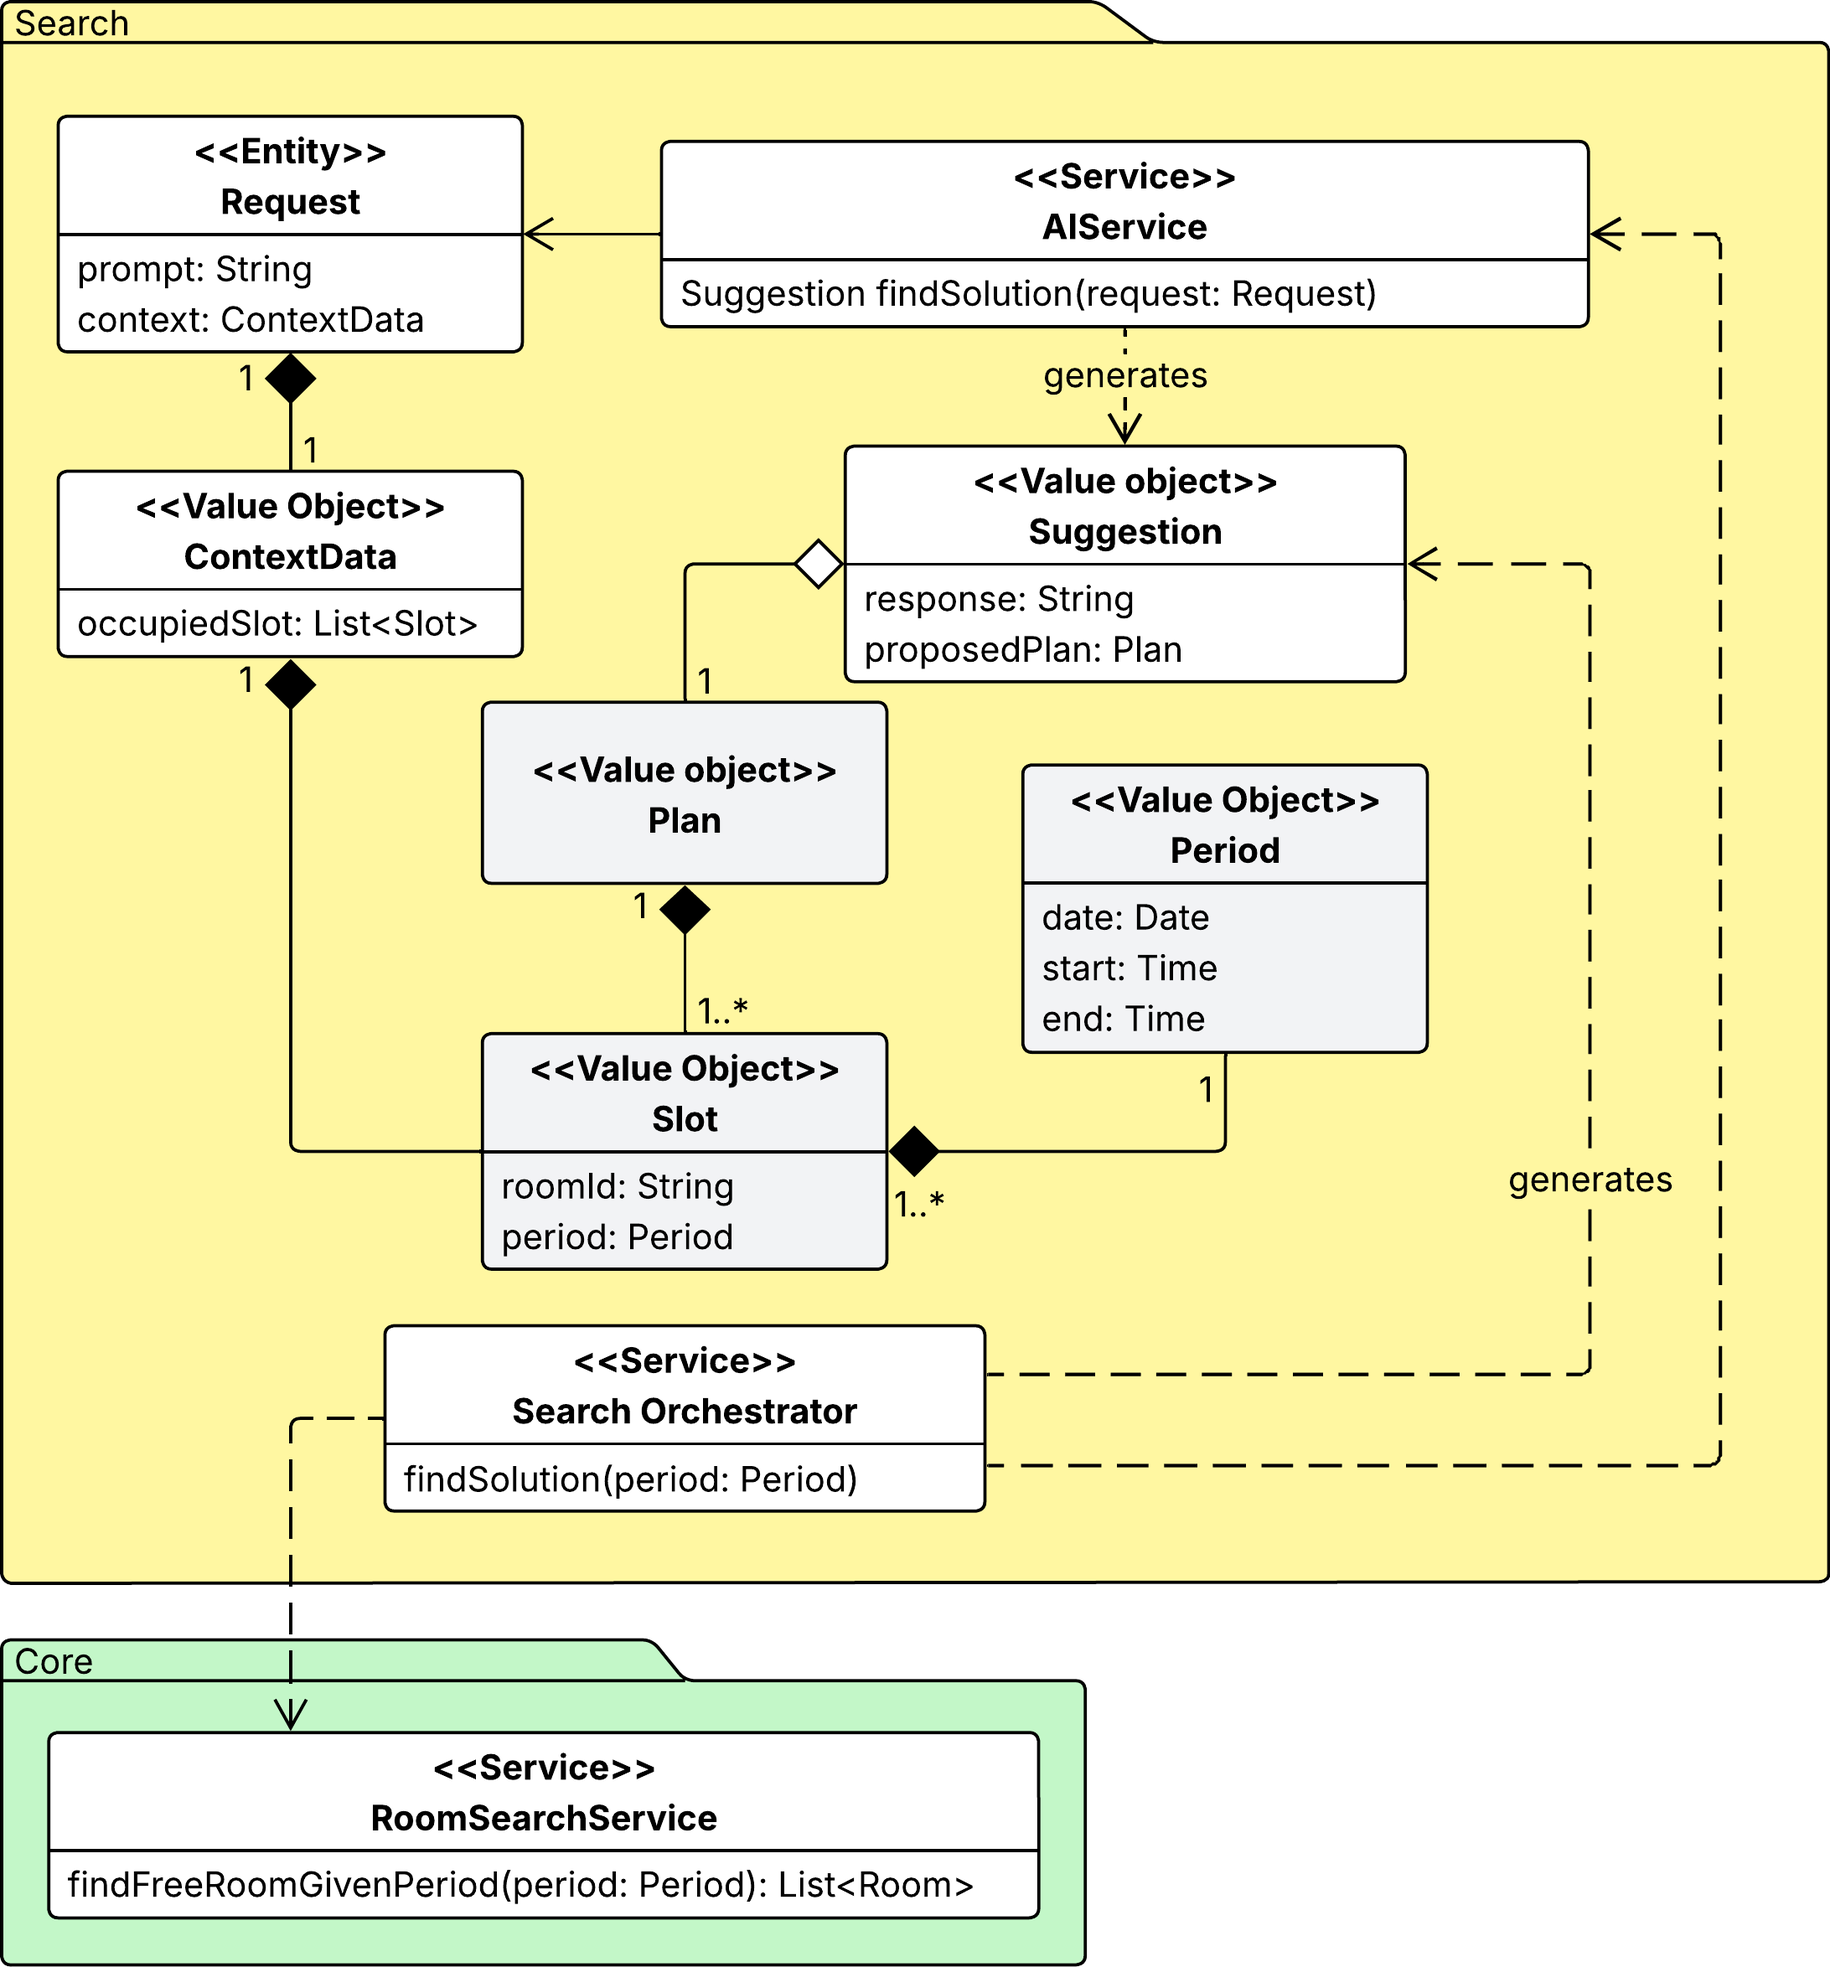
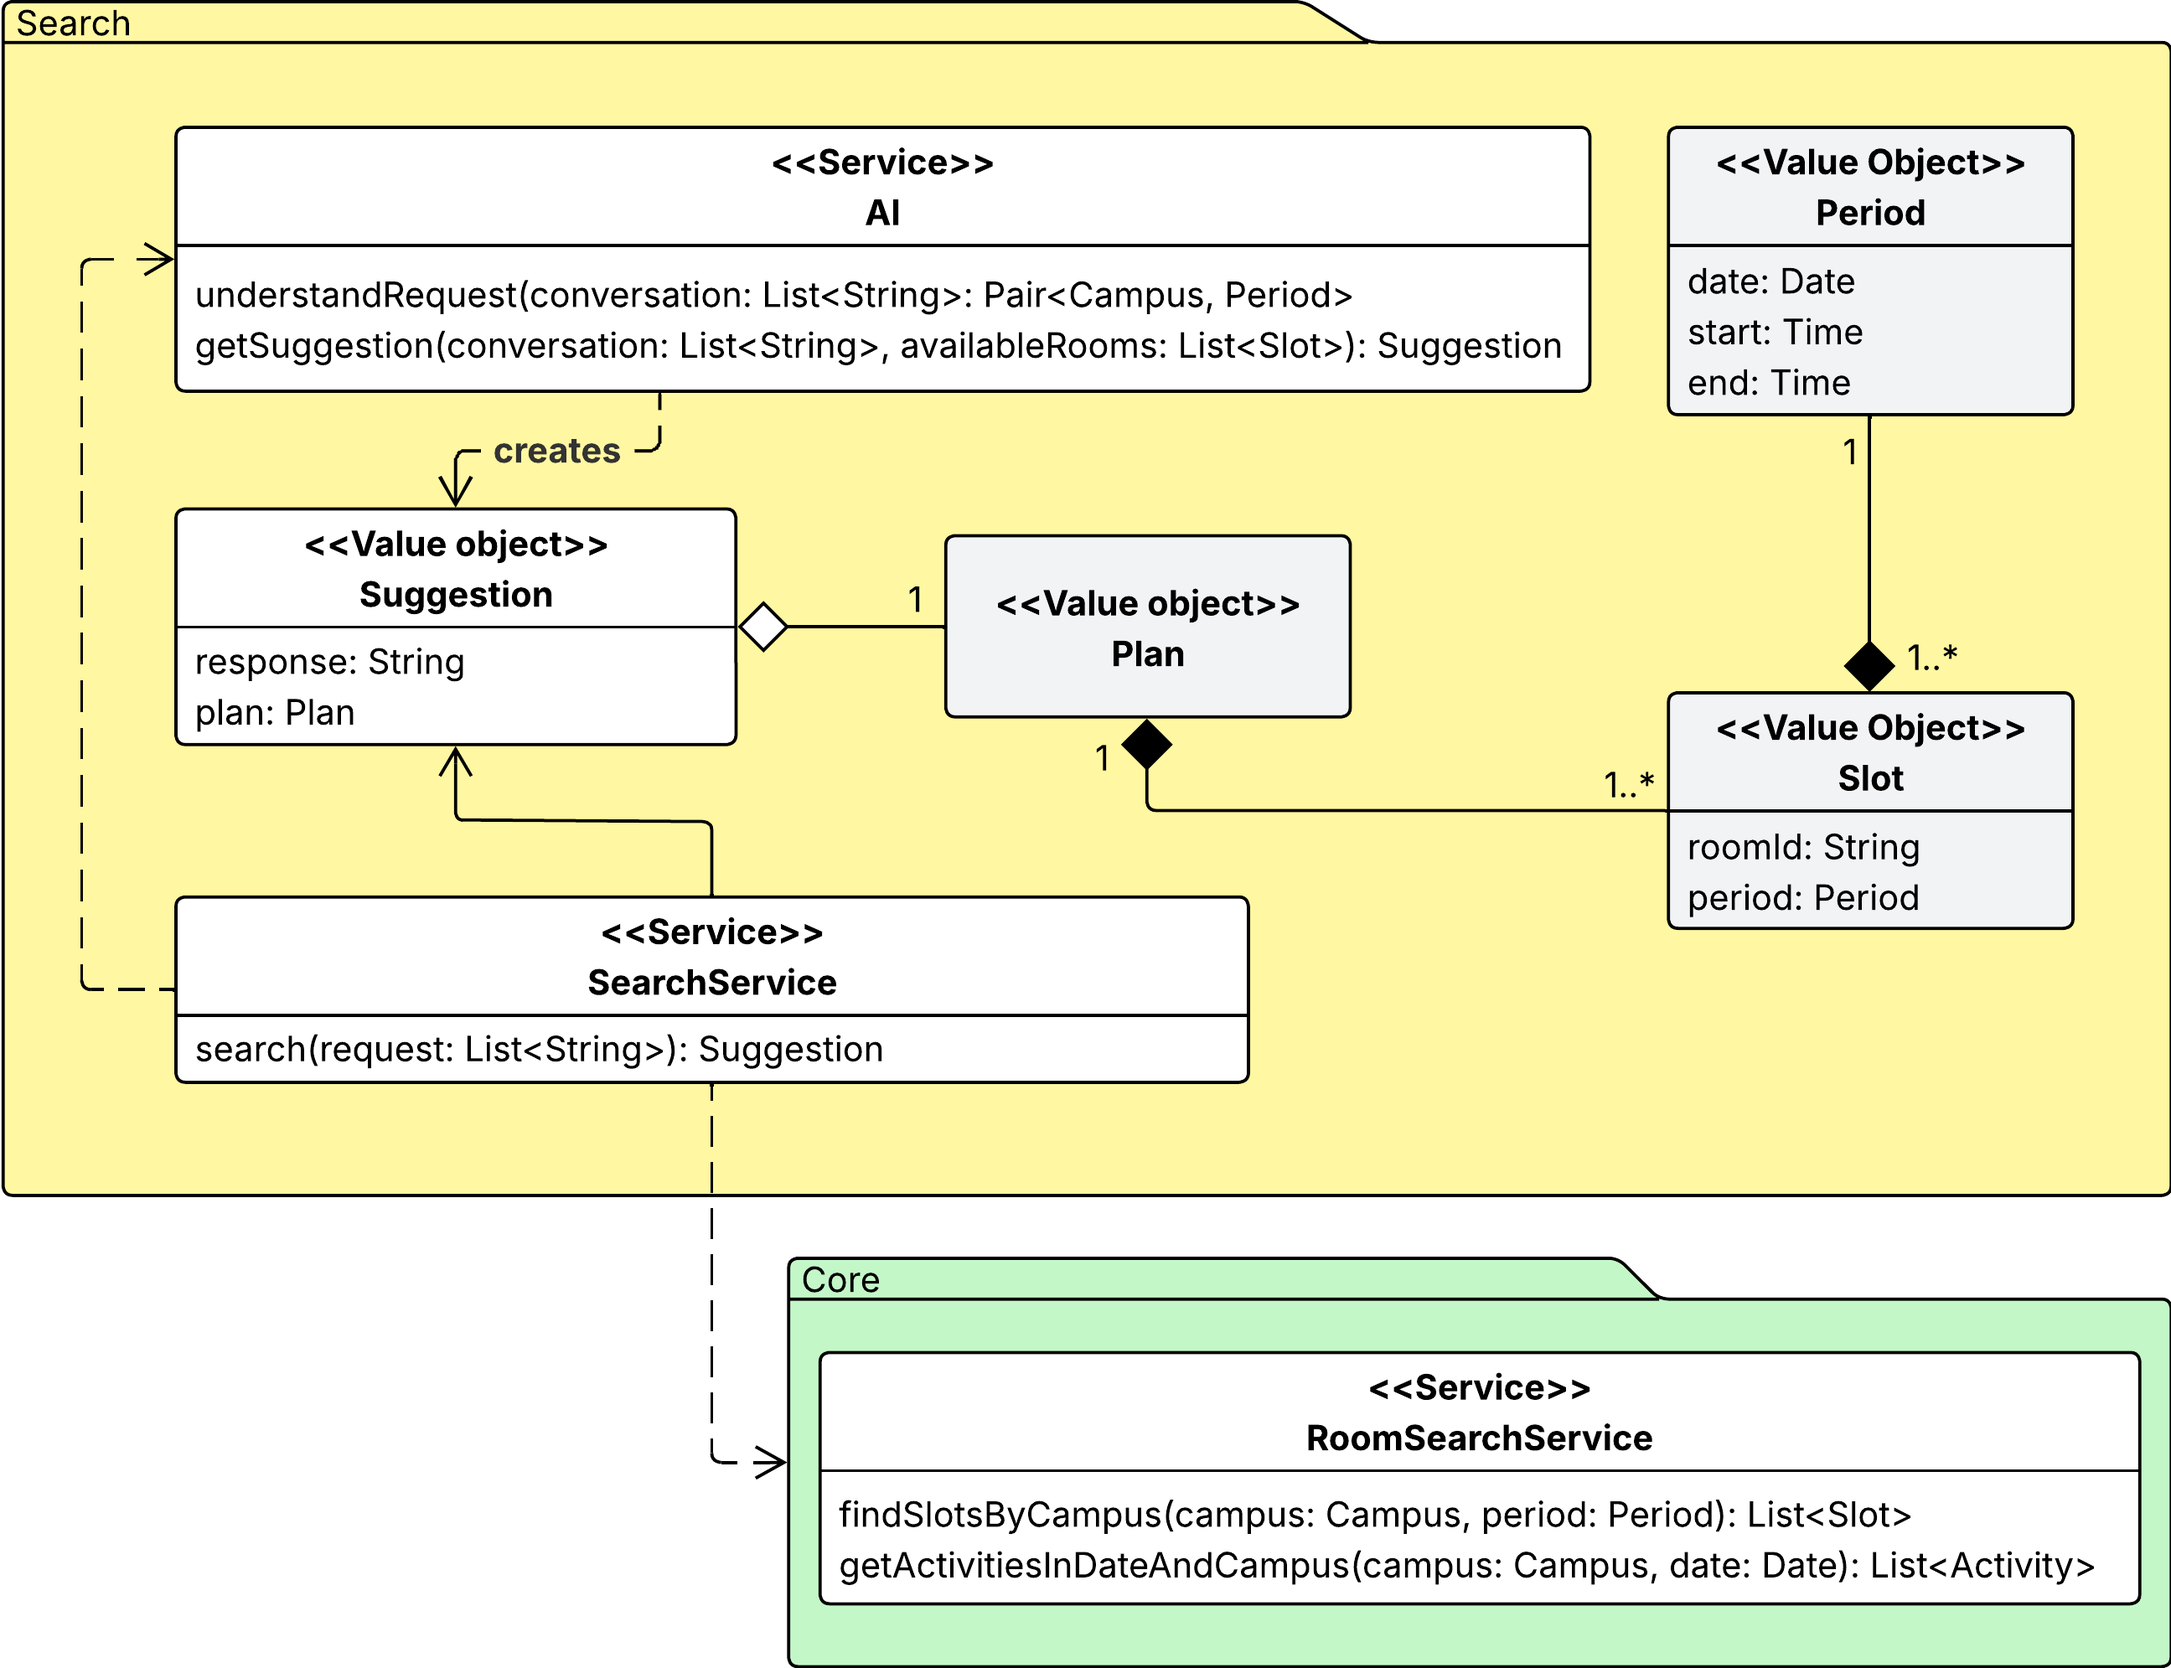
docs: update terminology and clarify search service logic in design documents

diff --git a/docs/2-design.md b/docs/2-design.md
@@ -56,24 +56,25 @@ asynchronously without coupling the logic.
 
 ![Search Context diagram](figures/search-context.png)
 
-This context acts as the intelligent interface between the user's needs and the system's data.
-The logic is encapsulated within the **Search Orchestrator**, a Domain Service that manages the
-resolution strategy. Upon receiving a query, the orchestrator first interacts with the
-**RoomSearchService** (located in the [Core context](#21-core-context)) to find immediate
-availability.
+This context acts as the intelligent interface between users' needs and the system's data.
+The logic is encapsulated within the **Search Service**, a Domain Service that manages the
+resolution strategy. Upon receiving a query (as a list of messages), the service first interacts with the
+**AI Service** to extract structured parameters, such as the desired time slot and campus location.
 
-If a direct match is not found, the orchestrator delegates the complexity to the **AIService**.
-This service processes a **Request**, which wraps the user's prompt and the relevant
-**ContextData** (the list of currently occupied **Slots**). The output is a **Suggestion** value
-object,
-which aggregates a natural language explanation and a structured **Plan**. This plan is composed of
-one or more **Slots**, offering the student a compound itinerary.
+Using these parameters, the service queries the **Room Search Service** in the [Core Context](#21-core-context)
+to identify currently available **Slots** that match the user's criteria. If a perfect match is found,
+it is immediately returned as a **Solution** value object, which includes both a natural-language
+explanation and the structured data.
 
-Finally, to facilitate integration, this context relies on a _Shared Kernel_ strategy. The
-fundamental concept of **Period** is shared globally with the Core and Notification contexts to
-ensure temporal consistency. Furthermore,
-the **Plan** and **Slot** value objects are shared specifically with
-the [Notification context](#23-notification-context).
+If no direct match exists, the service escalates the request to the **AI Service** again.
+This time it provides both the original user prompt and the list of currently available slots.
+The AI processes this information to generate a **Suggestion** value object, which contains
+a natural-language explanation and a structured **Plan** (a collection of one or more slots),
+offering the student a compound itinerary.
+
+To facilitate integration, this context relies on a _shared kernel_ strategy. The fundamental concept of
+**Period** is shared globally with the core and notification contexts to ensure temporal consistency. Furthermore,
+the **Plan** and **Slot** value objects are shared specifically with the [Notification Context](#23-notification-context).
 This decision allows the **Solution** generated here to be directly persisted as a
 **Subscription** in the Notification module without requiring complex data mapping or translation.
 

diff --git a/docs/1-analysis.md b/docs/1-analysis.md
@@ -111,7 +111,6 @@ language shared between developers and domain experts.
 | **Request**      | A natural language input provided by the _Student_ describing their study needs.                                                                                                                                                                                                        | Search                     |
 | **Suggestion**   | The answer generated by the _Assistant_, containing a proposed _Solution_ when possible, otherwise requests a refinement of the search parameters.                                                                                                                                      | Search                     |
 | **Solution**     | The result provided to the _Student_ in response to a request. It can be a simple solution (a single _Slot_) or, if unavailable, a compound solution generated by a _Assistant_ (multiple _Slots_).                                                                                     | Search                     |
-| **ContextData**  | Set of activities.                                                                                                                                                                                                                                                                      | Search                     |
 | **User**         | A person that uses the system. <br/> 1. **Student**. <br/> 2. **Administrator**.                                                                                                                                                                                                        | Core, Authentication       |
 | **Room**         | A physical spatial unit identified by a name and a _Site_. Can be: <br/> 1. **Laboratory**. <br/> 2. **Class**.                                                                                                                                                                         | Core, Search, Notification |
 | **Period**       | A specific start-time and end-time interval.                                                                                                                                                                                                                                            | Core, Search, Notification |
